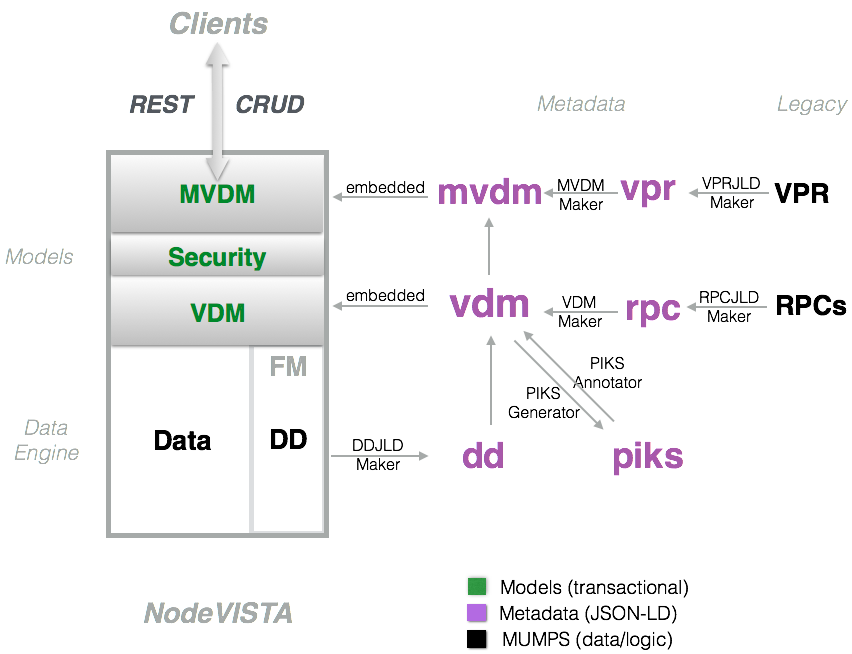
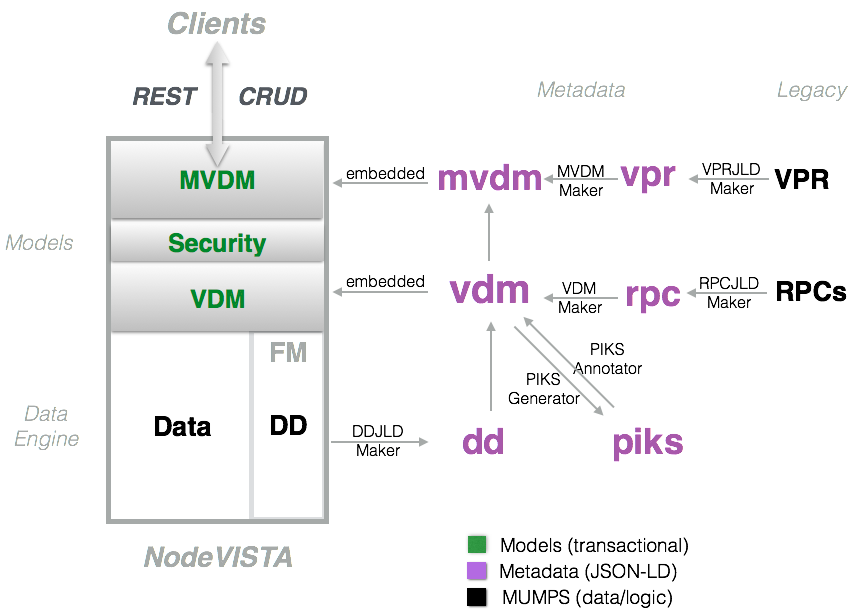
rmr

diff --git a/README.md b/README.md
@@ -2,7 +2,7 @@
 
 ## Architecture/Components
 
-![VDP Components Overview](/images/vdp-components6.png)
+![VDP Components Overview](/images/vdp-overview.png)
 
 ## Objective and Method of Delivery
 
